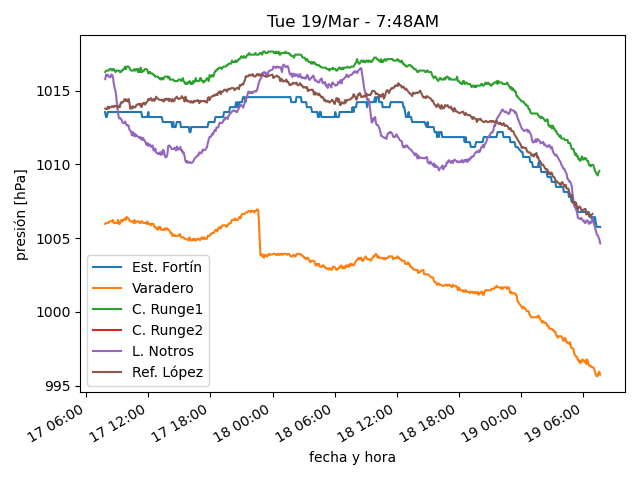
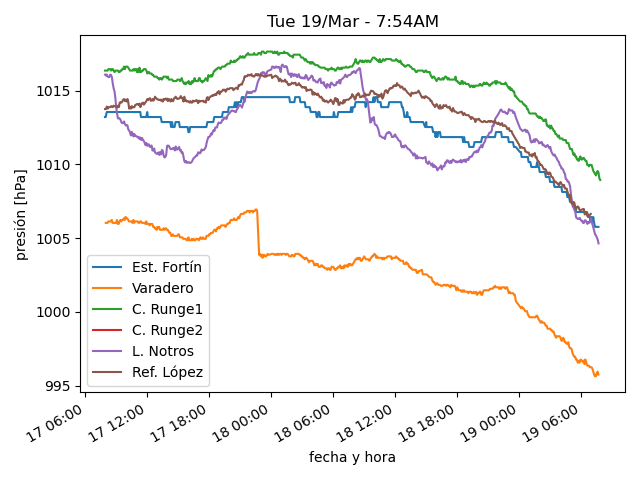
actualiza datos

diff --git a/estaciones/estacion3.html b/estaciones/estacion3.html
@@ -18,32 +18,32 @@
     </tr>
     <tr>
      <td class="stats_data">
-      7:34AM
+      7:49AM
      </td>
     </tr>
     <tr>
      <td class="stats_data">
-      10.1
+      10.6
      </td>
     </tr>
     <tr>
      <td class="stats_data">
-      5.1
+      5.5
      </td>
     </tr>
     <tr>
      <td class="stats_data">
-      71.0
+      70.8
      </td>
     </tr>
     <tr>
      <td class="stats_data">
-      997.83
+      997.22
      </td>
     </tr>
     <tr>
      <td class="stats_data">
-      3.8/5.0 WSW
+      5.1/7.9 W
      </td>
     </tr>
     <tr>
@@ -58,7 +58,7 @@
     </tr>
     <tr>
      <td class="stats_data">
-      0.0
+      1.7
      </td>
     </tr>
    </tbody>
